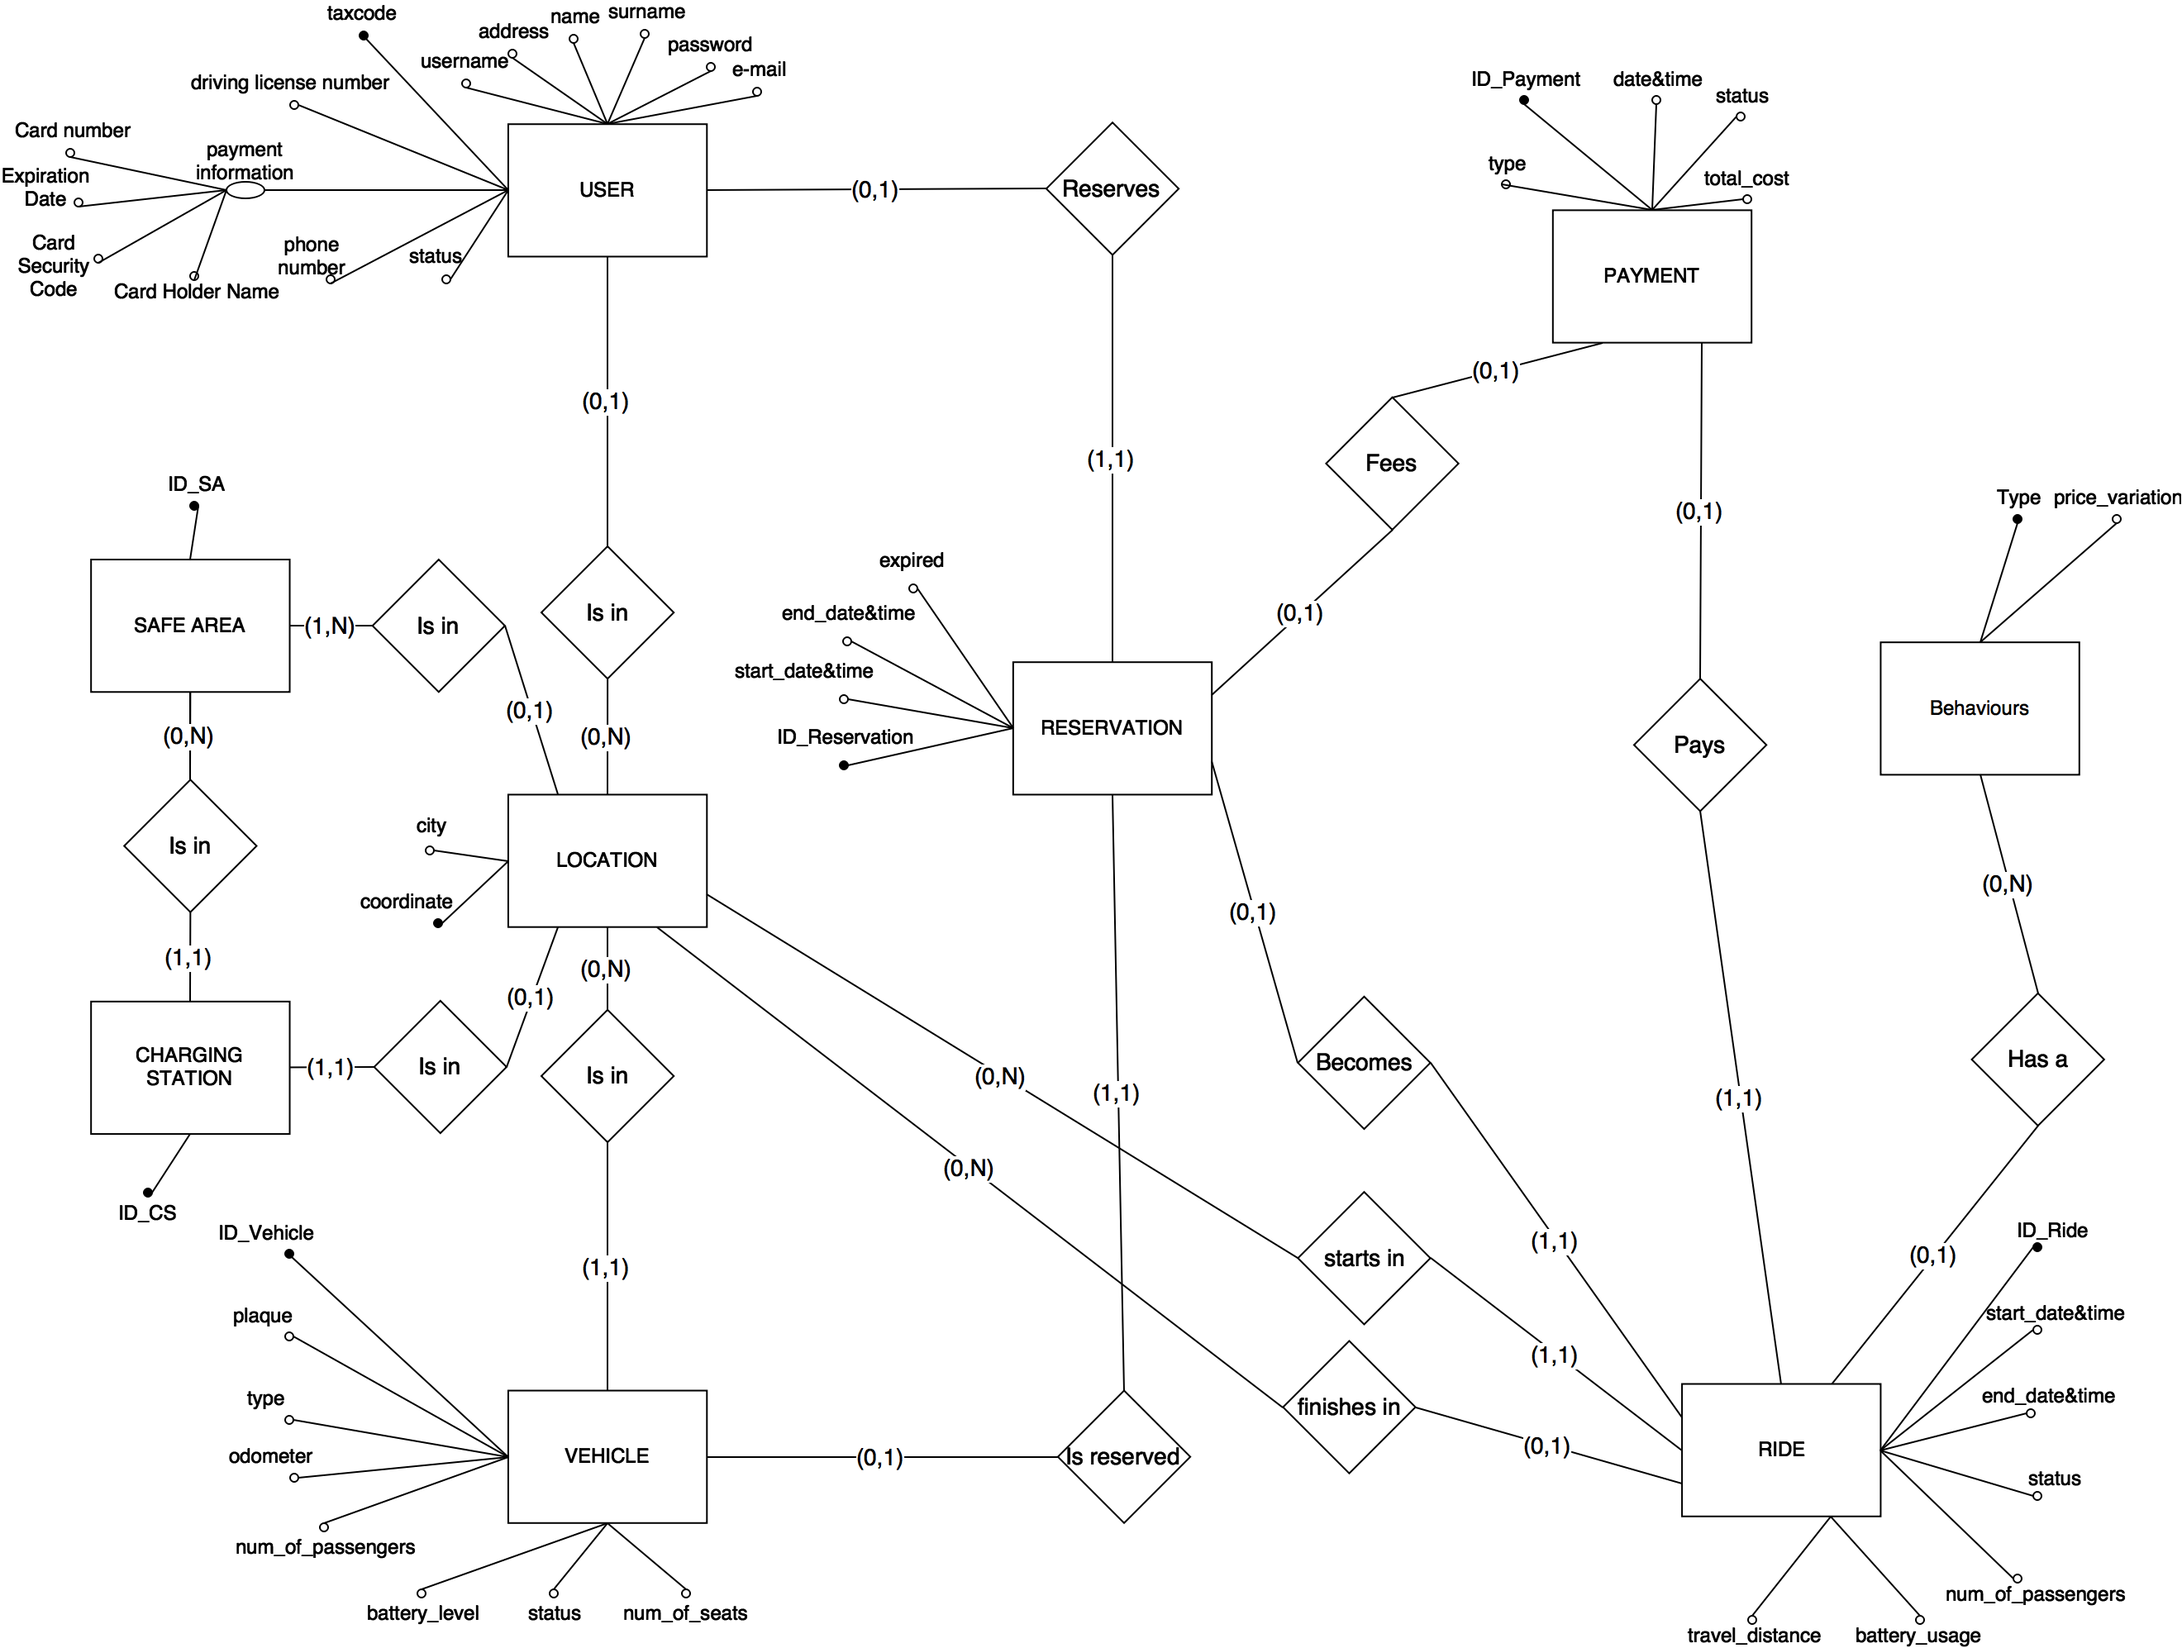
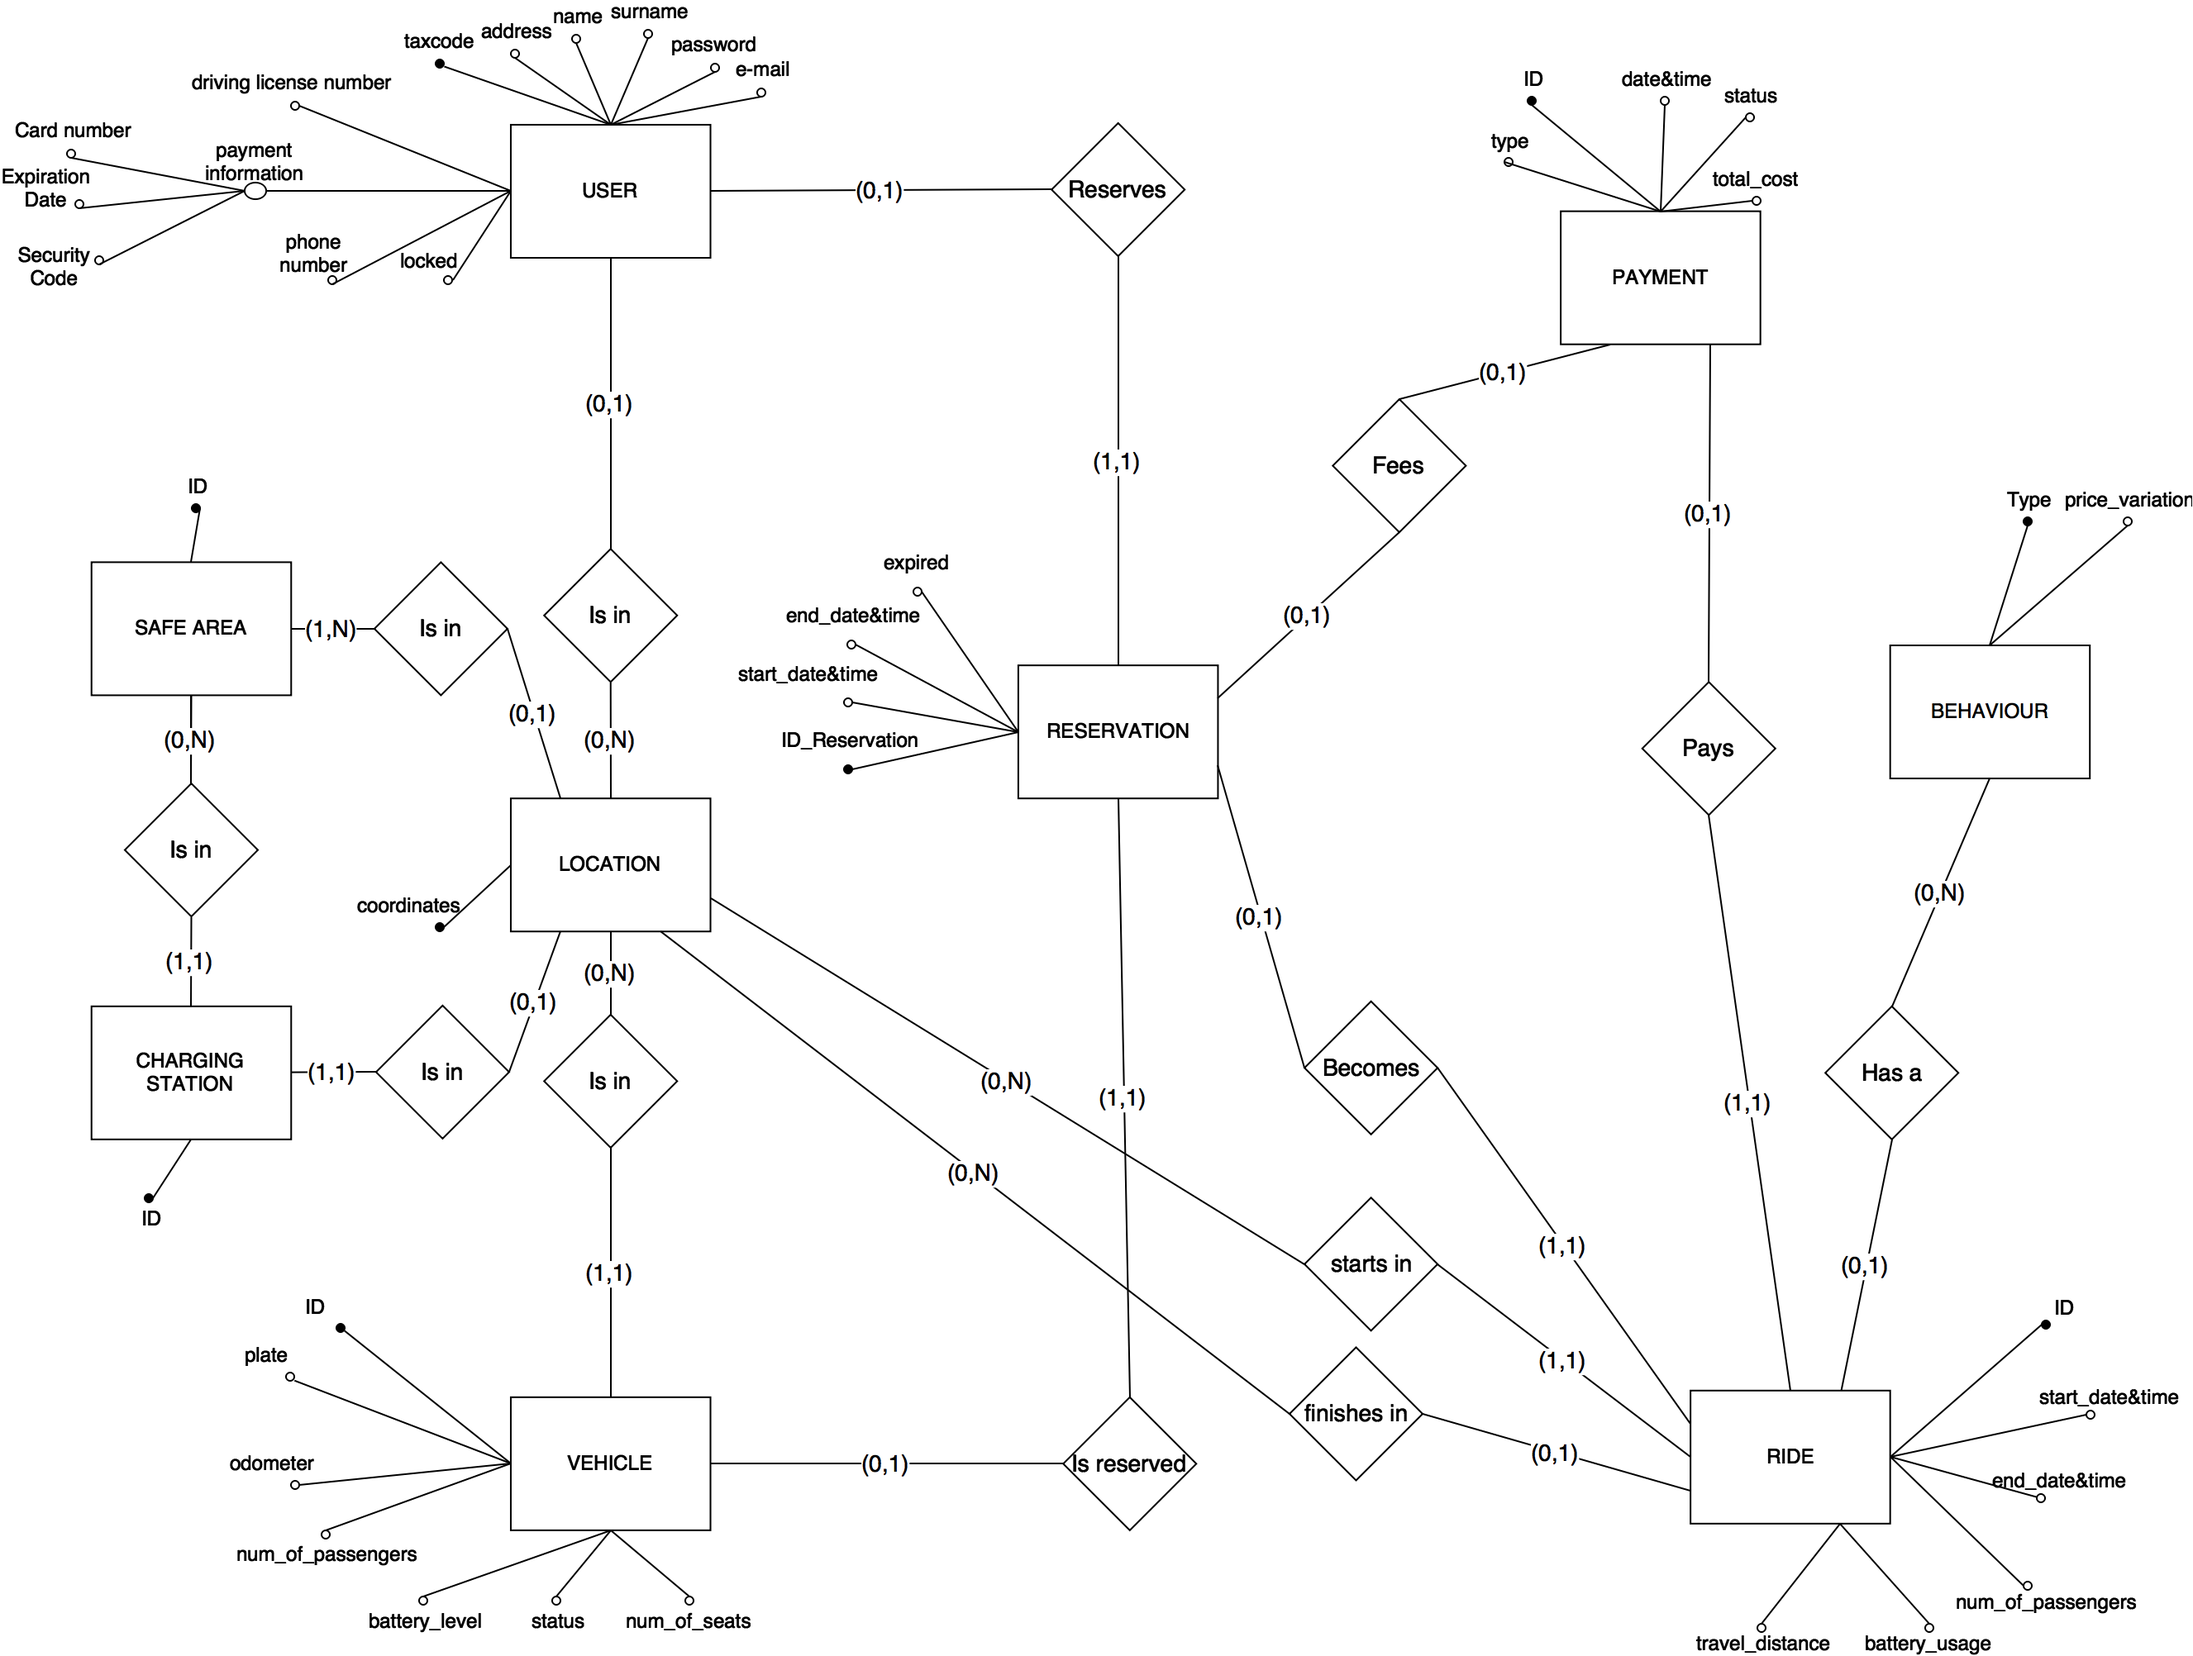
Update ER diagram and Deployment view

diff --git a/DD/contents/Architectural_design/component_view.tex b/DD/contents/Architectural_design/component_view.tex
@@ -44,19 +44,19 @@ User,Vehicle, Location, Safe Area, Charging Station, Reservation, Ride, Behaviou
 
  And this is the relation schema associated with the ER diagram.
 \begin{itemize} 
-	\item{User (\underline{taxcode}, \textit{Location}, e-mail, password, driving\_license\_number, name, surname, address, phone number, username, card\_number, expiration\_date, card\_security\_code, card\_holder\_name, status)} %status: reserving, riding, free, banned
-	\item{Vehicle (\underline{ID\_Vehicle}, \textit{Location}, plaque, type, odometer, battery\_level, status, num\_of\_seats, num\_of\_passengers) }
-	\item{Location (\underline{coordinate}, city)}	
-	\item{Safa Area (\underline{ID\_SA}, \textit{Location})} %type A=Safe Area, B=Charging Station, C=both, Add an ID!!!
-	\item{Charging Station(\underline{ID\_CS}, \textit{Location},\textit{ID\_SA})}
-	\item{Reservation (\underline{ID\_reservation}, \textit{ID\_User}, \textit{ID\_Vehicle}, start\_date\&time, end\_date\&time, expired)}
-	\item{Ride (\underline{ID\_Ride}, \textit{ID\_User}, \textit{ID\_Vehicle}, \textit{ID\_Reservation}, \textit{ID\_Payment},\textit{Start\_Location},\textit{Finish\_Location}, start\_date\&time, end\_date\&time, status, num\_of\_passengers, travel\_distance, battery\_usage)}
-	\item{Behaviours(\underline{Type}, \textit{ID\_Ride}, price\_variation)}
-	\item{Payment (\underline{ID\_Payment}, \textit{ID\_User}, \textit{ID\_Reservation}, \textit{ID\_Ride}, date\&time, total\_cost, status, type)}
+	\item{User (\underline{taxcode}, \textit{Location}, e-mail, password, driving\_license\_number, name, surname, address, phone number, card\_number, expiration\_date, security\_code, locked)}
+	\item{Vehicle (\underline{ID}, \textit{Location}, plate, type, odometer, battery\_level, status, num\_of\_seats, num\_of\_passengers) }
+	\item{Location (\underline{coordinates})}	
+	\item{Safa Area (\underline{ID}, \textit{Location})} %type A=Safe Area, B=Charging Station, C=both, Add an ID!!!
+	\item{Charging Station(\underline{ID}, \textit{Location},\textit{ID\_SafeArea})}
+	\item{Reservation (\underline{ID}, \textit{ID\_User}, \textit{ID\_Vehicle}, start\_date\&time, end\_date\&time, expired)}
+	\item{Ride (\underline{ID}, \textit{ID\_User}, \textit{ID\_Vehicle}, \textit{ID\_Reservation}, \textit{ID\_Payment},\textit{Start\_Location},\textit{End\_Location}, start\_date\&time, end\_date\&time, num\_of\_passengers, travel\_distance, battery\_usage)}
+	\item{Behaviours(\underline{Type}, \underline{\textit{ID\_Ride}}, price\_variation)}
+	\item{Payment (\underline{ID}, \textit{ID\_User}, \textit{ID\_Reservation}, \textit{ID\_Ride}, date\&time, total\_cost, status, type)}
 \end{itemize}
-In the User entity there are all the main informations about the user such as credentials and payment method. Her status can be reserving, riding, free or banned. The location of the user is not necessary.
+In the User entity there are all the main informations about the user such as credentials and payment method. User lock tag can be either TRUE or FALSE. The user's location is not mandatory.
 \\A Vehicle entity has different attributes, some of them supplied by the On-Board computer. The status here can be FREE, RESERVED, INUSE or OUTOFSERVICE.
-\\The Location entity represent a location provided by the GPS. Safe area are zones composed by one or more locations. Into the Safe areas there can be also some Charging stations.
-\\The Reservation entity is connected with an user and a vehicle. It can end or with an unlock or with an expiration, and in this second case it comports the payment of a fee by the user. The reservation is strictly connected with the Ride entity, which can exist only related with it. Each ride has a starting point and when it finishes an end point. 
+\\The Location entity represent a location provided by the GPS. Safe areas are zones composed by one or more locations which can contain Charging stations.
+\\A reservation is associated with a Payment object if and only if it is expired. Reservations are strictly connected with the Ride entity, which can exist only related with it. Each ride has a starting point and when it finishes an end point. 
 \\Every Ride is associated with a Payment object, in particular the presence of a related Behaviour object implies a variation of the final price. 
 \\In the Payment entity there are informations about the transaction from the user to PowerEnJoy, the status indicates if the payments succeeded or is pending.
